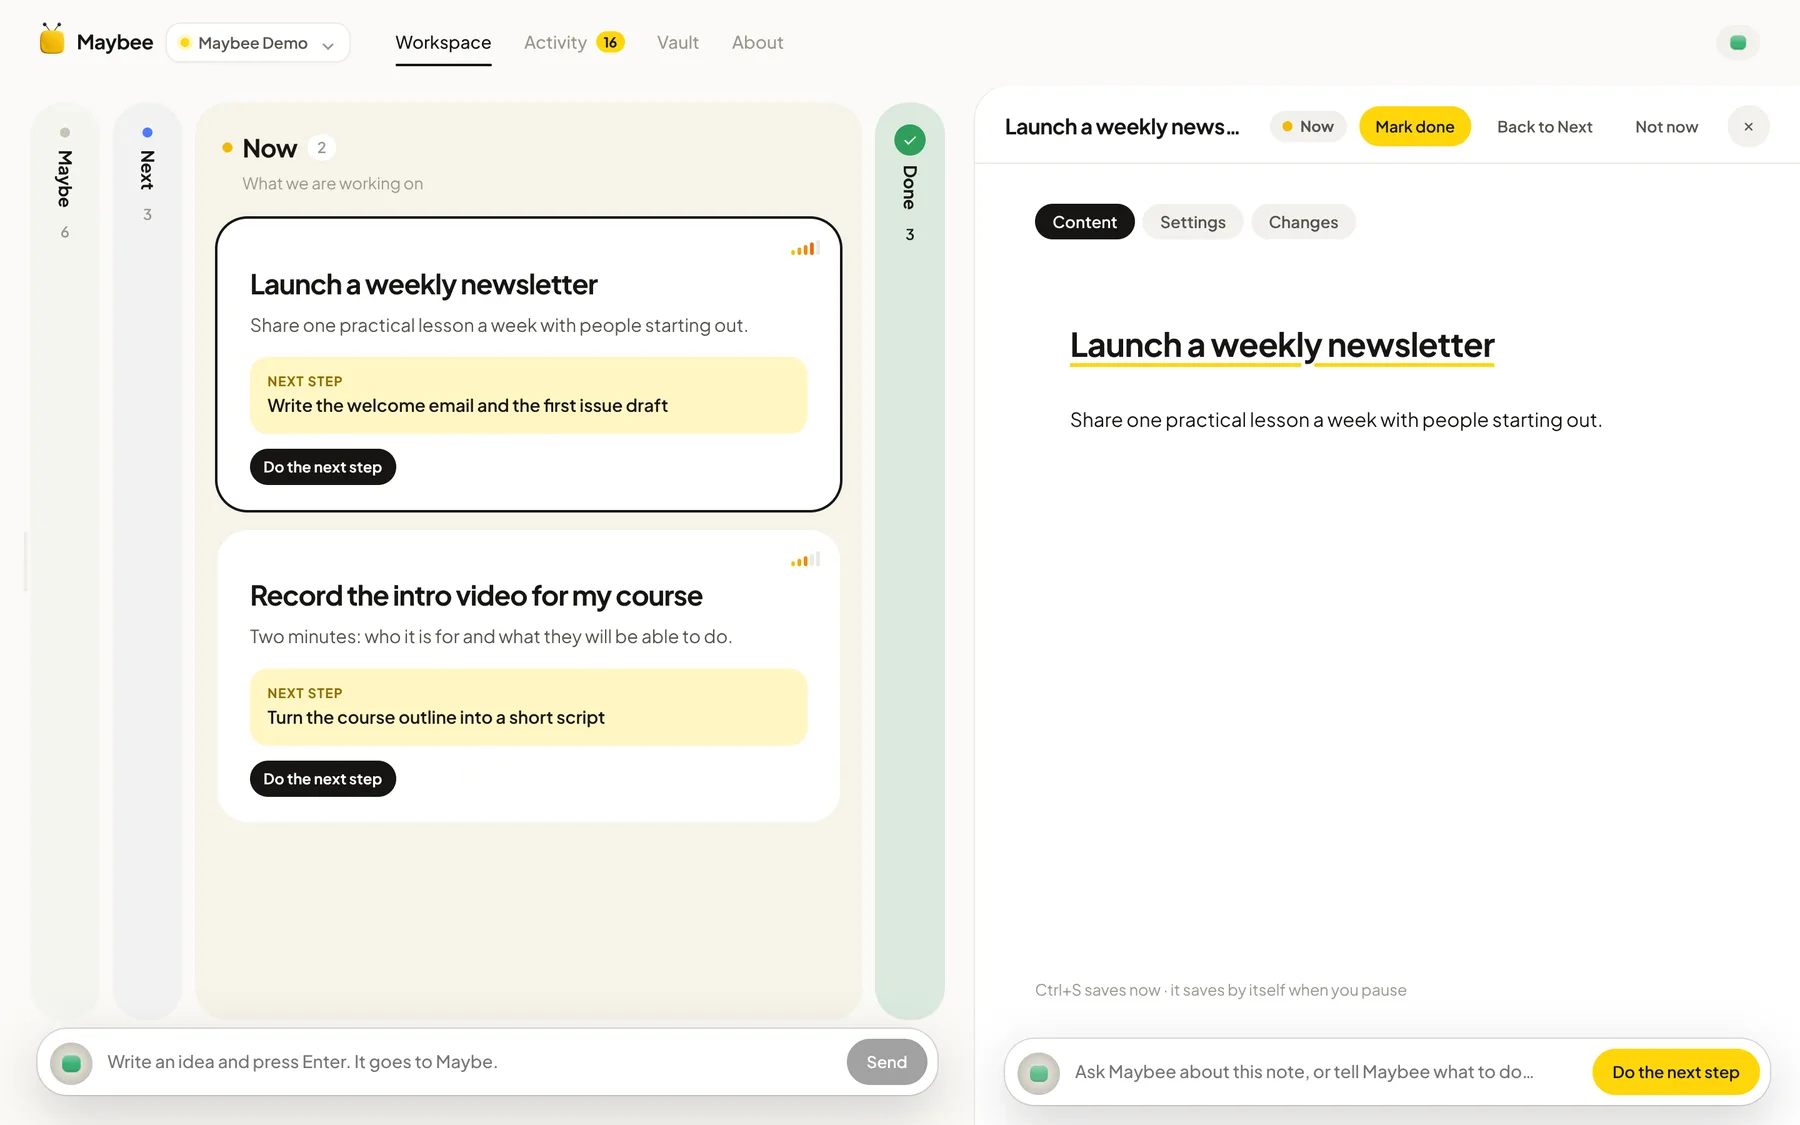
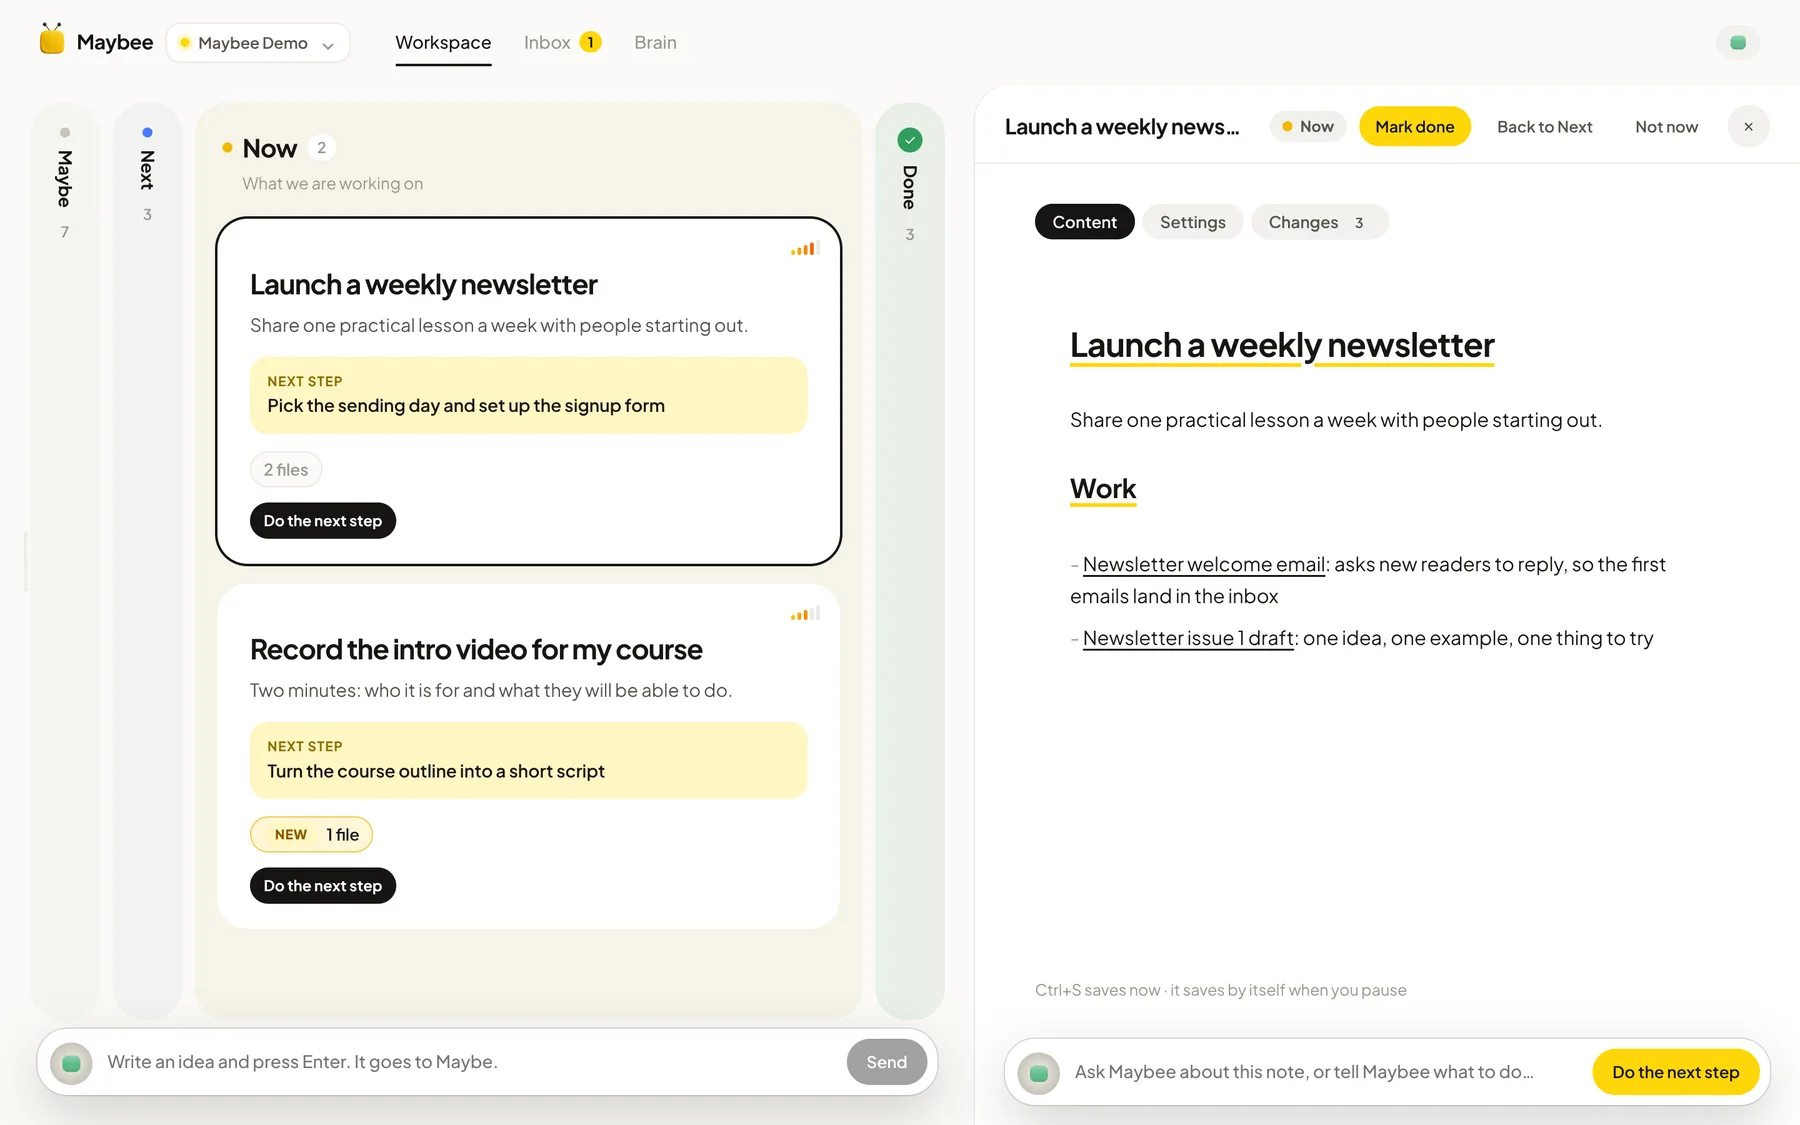
Release 0.1.49: a Brain you can ask, and an Inbox like mail; landing screenshots and sections for the Inbox and the Brain

diff --git a/docs/index.html b/docs/index.html
@@ -99,9 +99,9 @@ h2 { margin: 10px 0 0; font-size: clamp(30px, 4.6vw, 48px); line-height: 1.08; l
 .agent-shot .shot { margin: 0; }
 .agent-shot figcaption { margin: 14px auto 0; max-width: 720px; text-align: center; font-size: 14.5px; color: var(--text-2); }
 .agent-shot figcaption b { color: var(--text); }
-#brain .step li { display: block; padding-left: 26px; text-indent: -26px; }
-#brain .step li::before { display: inline-block; width: 26px; text-indent: 0; }
-#brain .step li b { color: var(--accent); font-weight: 700; }
+#brain .step li, #inbox .step li { display: block; padding-left: 26px; text-indent: -26px; }
+#brain .step li::before, #inbox .step li::before { display: inline-block; width: 26px; text-indent: 0; }
+#brain .step li b, #inbox .step li b { color: var(--accent); font-weight: 700; }
 .privacy { background: var(--dark); }
 
 /* maybee -> how i */
@@ -301,22 +301,41 @@ footer a { color: var(--text-2); }
   </div>
 </section>
 
+<section id="inbox">
+  <div class="wrap">
+    <div class="step reveal" style="margin-top:0">
+      <div class="copy">
+        <p class="kicker">Your inbox</p>
+        <h3 style="font-size:clamp(30px,4.6vw,48px);letter-spacing:-.04em">What needs you, and what’s ready for you.</h3>
+        <p>When the agent needs your OK, it asks in <b>Needs you</b>. When it finishes something, it lands in <b>For you</b>, one line per card, like mail.</p>
+        <ul>
+          <li><b>Needs you:</b> approve a script, pick a name, answer a question</li>
+          <li><b>For you:</b> drafts, emails and files, with the card they came from</li>
+          <li><b>A chat at the bottom:</b> answer and approve without leaving the inbox</li>
+        </ul>
+      </div>
+      <div class="shot"><img src="img/inbox-needs.webp" width="1800" height="1125" loading="lazy" alt="The Inbox with Needs you open: approve the intro video script, and pick three clients to ask for a testimonial" /></div>
+    </div>
+  </div>
+</section>
+
 <section id="brain">
   <div class="wrap">
     <div class="step reveal" style="margin-top:0">
       <div class="copy">
         <p class="kicker">Your second brain</p>
         <h3 style="font-size:clamp(30px,4.6vw,48px);letter-spacing:-.04em">A second brain, powered by AI.</h3>
-        <p>Maybee isn’t only a board. Next to your ideas it keeps what your project knows: who you serve, how you sound, what you decided and who you work with. Everything is searchable in the Vault.</p>
+        <p>Maybee isn’t only a board. Next to your ideas it keeps what your project knows: who you serve, how you sound, what you decided and who you work with. It all lives in the Brain: browse it folder by folder, search it, or just ask it.</p>
         <ul>
           <li><b>Knowledge:</b> your audience, your offer, your voice</li>
           <li><b>Decisions:</b> what you chose and why, so you don’t decide twice</li>
           <li><b>People:</b> clients, partners and what you know about them</li>
-          <li><b>Outputs:</b> everything the agent made for you</li>
+          <li><b>Work:</b> everything the agent made for you</li>
         </ul>
+        <p>Ask the Brain a question and it answers from your files, with links. Tell it to change your goal or your voice and it updates the right file. Move or rename a file and every link to it follows.</p>
         <p>The agent reads your knowledge before it writes anything, so a draft sounds like you and speaks to the right person. The more you add, the better it gets.</p>
       </div>
-      <div class="shot"><img src="img/vault.webp" width="1800" height="1125" loading="lazy" alt="The Vault: every file of the project by type, with search, knowledge notes, a decision and a client" /></div>
+      <div class="shot"><img src="img/brain.webp" width="1800" height="1125" loading="lazy" alt="The Brain: the project, its state and its dashboard on top, then the folders: cards, knowledge, work, people, decisions" /></div>
     </div>
   </div>
 </section>

diff --git a/release/whats-new/0.1.49.md b/release/whats-new/0.1.49.md
@@ -1,0 +1,26 @@
+---
+title: "What's new in Maybee 0.1.49"
+type: idea
+stage: now
+owner: both
+kind: Release notes
+description: "The Vault is now the Brain, About is gone, and the Inbox works like mail: Needs you and For you, with a chat."
+release: 0.1.49
+importance: nice
+---
+
+> [Dashboard](../DASHBOARD.md) · [Everything that changed](../RELEASES.md)
+
+# What's new in Maybee 0.1.49
+
+**A Brain you can ask, and an Inbox like mail.**
+
+- **The Vault is now the Brain.** Your project, its state and its dashboard sit on top; the folders below.
+- **Ask the Brain.** Type to search. Press Enter to ask a question: Maybee answers from your files, with links. You can also tell it to change your goal, audience or voice, and it updates the right file.
+- **Move, rename and delete files in the Brain.** Drag a file onto a folder, or use the ⋯ menu. Every link to it is fixed. A deleted file goes to the trash, with Undo. Project, State, Dashboard and the logs stay where Maybee needs them.
+- **About is gone.** What it showed lives in the Brain, the Inbox and the board.
+- **The Inbox has two boxes.** **Needs you**: what waits for your OK. **For you**: what Maybee made, one line per card. Unread lines are bold, and each card's column shows as a tag.
+- **A chat in the Inbox.** Answer what needs you or approve what arrived without leaving it.
+- **Every place slides like the board.** The Inbox and the Brain's folders open and close as columns.
+
+**Done when:** you have read this and moved the card to Done. Nothing is required from you.

diff --git a/release/workspaces/default/RELEASES.md b/release/workspaces/default/RELEASES.md
@@ -2,6 +2,16 @@
 
 The newest version is at the top. Maybee keeps this file up to date when you update, so it always shows the full history. It is not part of your notes: edit your own files, not this one.
 
+## 0.1.49 · 23 Nov 2026
+
+**A Brain you can ask, and an Inbox like mail.**
+
+- **Brain** replaces the Vault: the project, its state and its dashboard on top, the folders below; ask it questions or tell it what to change in the chat.
+- **Move, rename and delete** files in the Brain: drag onto a folder or use ⋯; every link follows; deleted files go to the trash, with Undo.
+- **About is gone**: its parts live in the Brain, the Inbox and the board.
+- **Inbox**: two boxes, Needs you and For you (one line per card, unread in bold, the card's column as a tag), and a chat to answer and approve.
+- **Every place slides like the board**: the Inbox and the Brain's folders open and close as columns.
+
 ## 0.1.48 · 23 Nov 2026
 
 **A tidier Vault.**
